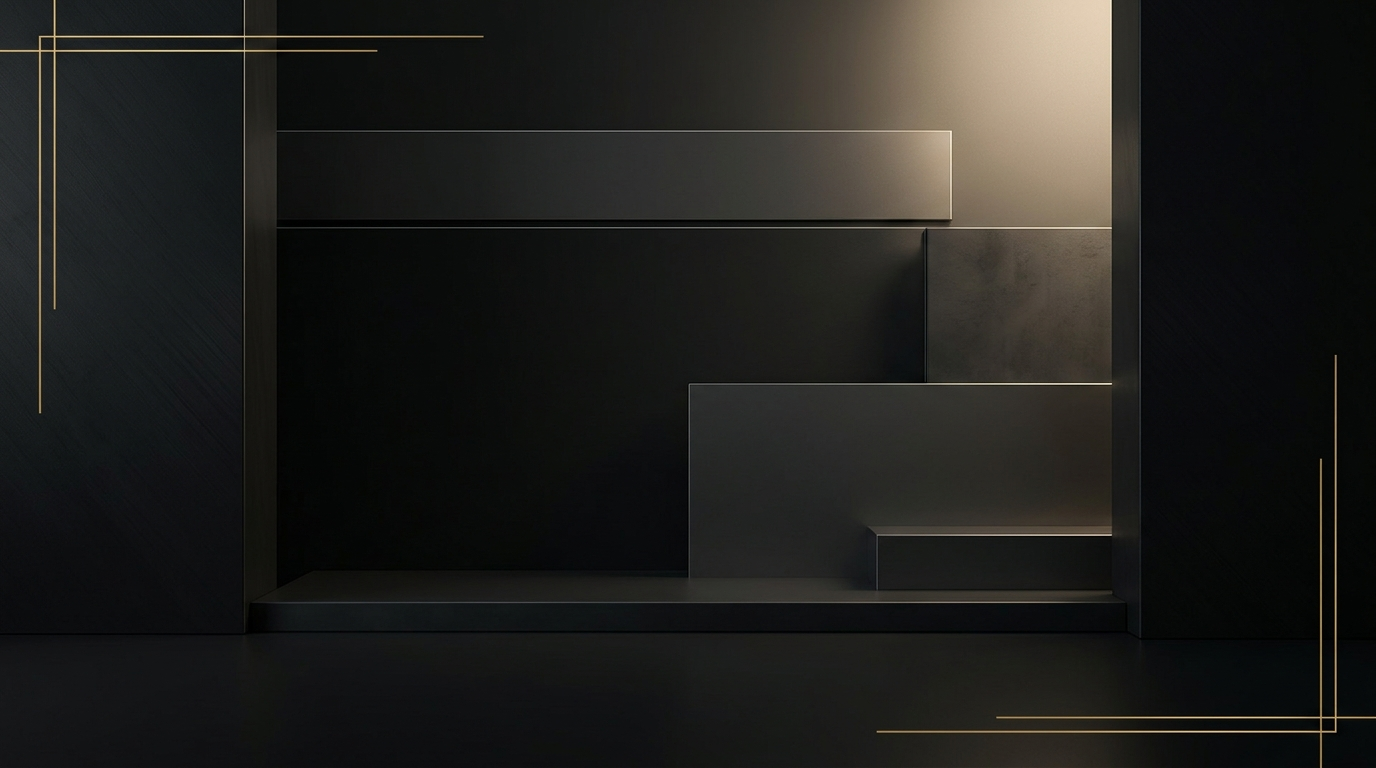
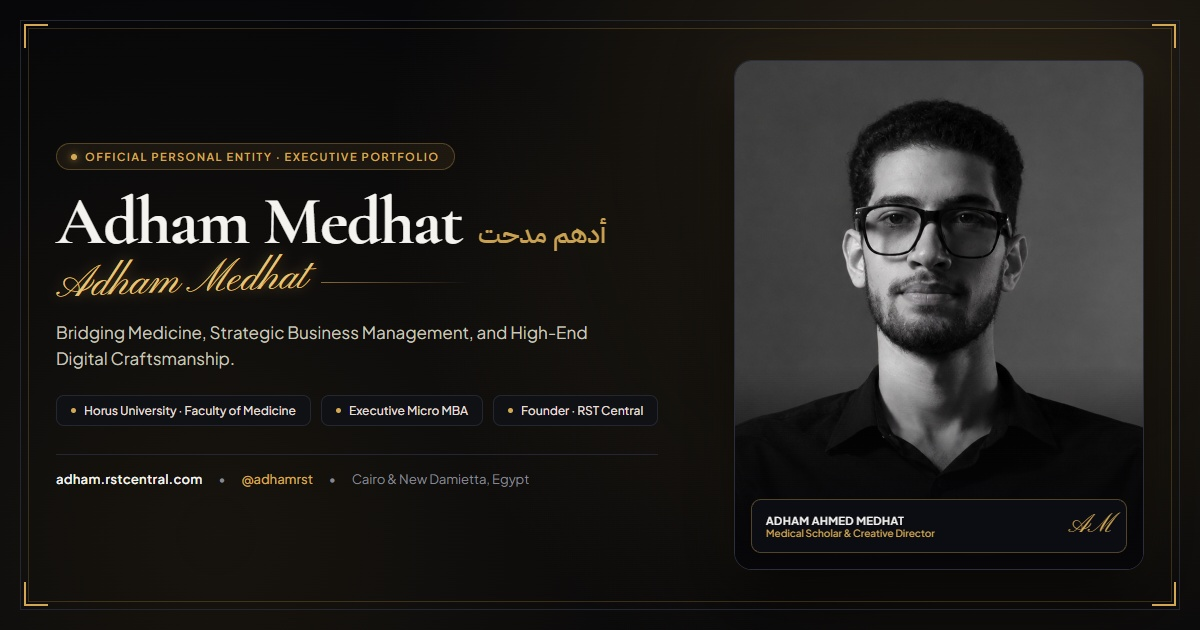
feat(identity): add animated gold handwritten signature and executive 1200x630 OG social cover

diff --git a/src/components/AnimatedSignature.tsx b/src/components/AnimatedSignature.tsx
@@ -1,0 +1,109 @@
+import { useState } from 'react';
+import { motion } from 'motion/react';
+import { EDITORIAL_EASE } from './MotionPrimitives';
+
+interface AnimatedSignatureProps {
+  className?: string;
+  lang?: 'en' | 'ar';
+  showLabel?: boolean;
+  interactive?: boolean;
+}
+
+export function AnimatedSignature({
+  className = '',
+  lang = 'en',
+  showLabel = true,
+  interactive = true,
+}: AnimatedSignatureProps) {
+  const [animationKey, setAnimationKey] = useState(0);
+
+  const handleReplay = () => {
+    if (interactive) {
+      setAnimationKey((prev) => prev + 1);
+    }
+  };
+
+  return (
+    <div
+      className={`relative inline-flex flex-col items-start ${className}`}
+      onClick={handleReplay}
+      role={interactive ? 'button' : undefined}
+      tabIndex={interactive ? 0 : undefined}
+      onKeyDown={(e) => {
+        if (interactive && (e.key === 'Enter' || e.key === ' ')) {
+          e.preventDefault();
+          handleReplay();
+        }
+      }}
+      title={interactive ? (lang === 'ar' ? 'إعادة رسم التوقيع' : 'Click to replay signature') : undefined}
+      aria-label={lang === 'ar' ? 'توقيع أدهم مدحت المعتمد' : 'Official signature of Adham Medhat'}
+    >
+      <svg
+        key={animationKey}
+        viewBox="0 0 380 95"
+        className="h-16 w-auto sm:h-20 select-none overflow-visible drop-shadow-[0_2px_12px_rgba(212,168,83,0.25)]"
+        fill="none"
+        xmlns="http://www.w3.org/2000/svg"
+      >
+        <defs>
+          <linearGradient id="signatureGold" x1="0%" y1="0%" x2="100%" y2="0%">
+            <stop offset="0%" stopColor="#E8C478" />
+            <stop offset="60%" stopColor="#D4A853" />
+            <stop offset="100%" stopColor="#C8973A" />
+          </linearGradient>
+        </defs>
+
+        {/* Cursive Name Text with Live Stroke Draw */}
+        <text
+          x="12"
+          y="56"
+          className="font-signature select-none cursor-pointer"
+          style={{
+            fontFamily: "'Pinyon Script', cursive",
+            fontSize: '54px',
+            stroke: 'url(#signatureGold)',
+            strokeWidth: '1.25px',
+            fill: '#D4A853',
+            letterSpacing: '0.02em',
+            strokeDasharray: 500,
+            strokeDashoffset: 500,
+            animation: 'signatureDraw 1.8s cubic-bezier(0.22, 1, 0.36, 1) forwards',
+          }}
+        >
+          Adham Medhat
+        </text>
+
+        {/* Sweeping Paraph / Underline Flourish */}
+        <motion.path
+          d="M 16 68 Q 140 92 330 58 Q 345 56 354 62"
+          stroke="url(#signatureGold)"
+          strokeWidth="1.8"
+          strokeLinecap="round"
+          initial={{ pathLength: 0, opacity: 0 }}
+          animate={{ pathLength: 1, opacity: 1 }}
+          transition={{ duration: 1.1, delay: 0.9, ease: EDITORIAL_EASE }}
+        />
+
+        {/* End Flourish Seal Dot */}
+        <motion.circle
+          cx="358"
+          cy="63.5"
+          r="2.2"
+          fill="#E8C478"
+          initial={{ scale: 0, opacity: 0 }}
+          animate={{ scale: 1, opacity: 1 }}
+          transition={{ duration: 0.3, delay: 1.85, ease: 'easeOut' }}
+        />
+      </svg>
+
+      {showLabel && (
+        <div className="flex items-center gap-2 pt-0.5 text-[10px] tracking-wider uppercase text-[#858894]">
+          <span className="h-1 w-1 rounded-full bg-[#D4A853]" />
+          <span>
+            {lang === 'ar' ? 'التوقيع الرقمي المعتمد' : 'Authenticated Signature'}
+          </span>
+        </div>
+      )}
+    </div>
+  );
+}

diff --git a/src/components/HeroSection.tsx b/src/components/HeroSection.tsx
@@ -5,6 +5,7 @@ import { ASSETS, IDENTITY_METRICS, Language, UI_COPY } from '../data/profileData
 import { calculateTiltAngles, TiltResult } from '../utils/portfolioLogic';
 import { EDITORIAL_EASE, LineMaskReveal, StaggerGroup, StaggerItem } from './MotionPrimitives';
 import { ResilientImage } from './ResilientImage';
+import { AnimatedSignature } from './AnimatedSignature';
 
 interface HeroSectionProps {
   lang: Language;
@@ -380,16 +381,26 @@ export function HeroSection({
                     </span>
                   </div>
                 </div>
-
-                {/* Measured scrim caption at base (fades softly on desktop hover so fan breathes) */}
-                <figcaption className="absolute inset-x-0 bottom-0 bg-gradient-to-t from-[#070709]/92 via-[#070709]/55 to-transparent px-4 sm:px-5 pt-10 pb-3.5 sm:pb-4 transition-opacity duration-300 lg:group-hover:opacity-0">
-                  <div className="flex items-center justify-between gap-3 text-[11px] sm:text-xs text-[#D5D3CC]">
-                    <span className="truncate font-medium">{UI_COPY.hero.portraitCaption[lang]}</span>
-                    <span className="shrink-0 font-medium text-[#D4A853]">adham.rstcentral.com</span>
-                  </div>
-                </figcaption>
               </figure>
             </div>
+
+            {/* Executive Hand-Drawn Signature Seal */}
+            <motion.div
+              initial={{ opacity: 0, y: 10 }}
+              animate={{ opacity: 1, y: 0 }}
+              transition={{ duration: 0.7, delay: 0.42, ease: EDITORIAL_EASE }}
+              className="mt-3.5 flex items-center justify-between px-1.5"
+            >
+              <AnimatedSignature lang={lang} />
+              <div className="hidden sm:flex flex-col items-end text-right">
+                <span className="font-editorial text-sm font-semibold tracking-tight text-[#F4F3EF]">
+                  @adhamrst
+                </span>
+                <span className="text-[10px] tracking-wider text-[#D4A853]">
+                  {lang === 'ar' ? 'جامعة حورس · RST' : 'Horus Univ · RST'}
+                </span>
+              </div>
+            </motion.div>
           </motion.div>
         </div>
 

diff --git a/index.html b/index.html
@@ -67,11 +67,11 @@
     <link rel="me" href="https://facebook.com/adhamrstt" />
     <!-- Optional Authority rel=me: add your verified Crunchbase & Wikidata URLs when ready -->
 
-    <!-- Editorial Typography (Cormorant Garamond + Plus Jakarta Sans + IBM Plex Sans Arabic) -->
+    <!-- Editorial Typography (Cormorant Garamond + Plus Jakarta Sans + IBM Plex Sans Arabic + Pinyon Script Signature) -->
     <link rel="preconnect" href="https://fonts.googleapis.com" />
     <link rel="preconnect" href="https://fonts.gstatic.com" crossorigin />
     <link
-      href="https://fonts.googleapis.com/css2?family=Cormorant+Garamond:ital,wght@0,500;0,600;0,700;1,500&family=IBM+Plex+Sans+Arabic:wght@400;500;600;700&family=Plus+Jakarta+Sans:wght@400;500;600;700&display=swap"
+      href="https://fonts.googleapis.com/css2?family=Cormorant+Garamond:ital,wght@0,500;0,600;0,700;1,500&family=IBM+Plex+Sans+Arabic:wght@400;500;600;700&family=Pinyon+Script&family=Plus+Jakarta+Sans:wght@400;500;600;700&display=swap"
       rel="stylesheet"
     />
 

diff --git a/src/index.css b/src/index.css
@@ -4,6 +4,7 @@
   --font-display: "Cormorant Garamond", Georgia, serif;
   --font-sans: "Plus Jakarta Sans", -apple-system, BlinkMacSystemFont, sans-serif;
   --font-arabic: "IBM Plex Sans Arabic", "Plus Jakarta Sans", sans-serif;
+  --font-signature: "Pinyon Script", cursive;
 
   --color-obsidian: #070709;
   --color-surface: #101115;
@@ -52,6 +53,10 @@
   font-family: var(--font-display);
 }
 
+.font-signature {
+  font-family: var(--font-signature);
+}
+
 html[dir="rtl"] .font-editorial {
   font-family: var(--font-arabic);
   letter-spacing: 0;
@@ -95,6 +100,21 @@ html[dir="rtl"] .font-editorial {
 .eq-bar {
   transform-origin: bottom;
   animation: eq-pulse 1.15s ease-in-out infinite;
+}
+
+@keyframes signatureDraw {
+  0% {
+    stroke-dashoffset: 500;
+    fill-opacity: 0;
+  }
+  65% {
+    stroke-dashoffset: 0;
+    fill-opacity: 0.15;
+  }
+  100% {
+    stroke-dashoffset: 0;
+    fill-opacity: 1;
+  }
 }
 
 /* Desktop Portrait Hover — Luxury Obsidian & Champagne-Gold Nested Glass Social Fan */

diff --git a/HANDOVER.md b/HANDOVER.md
@@ -72,11 +72,13 @@
 * `src/data/entityConfig.ts` — Drop-in image config, WebP certificate asset map, & RST Central official branding.
 * `src/data/profileData.ts` — Unified bilingual dataset (Full Credentials portfolio, Ventures, Pillars, Copy).
 * `src/components/CredentialsCarousel.tsx` — Dual Grid / 3D Slider display engine with Lightbox and 6-discipline filter bar.
-* `src/components/HeroSection.tsx` — Editorial hero with magnetic CTAs, 3D tilt portrait effects, and social fan.
+* `src/components/HeroSection.tsx` — Editorial hero with magnetic CTAs, 3D tilt portrait effects, clean unoccluded studio portrait, and social fan.
+* `src/components/AnimatedSignature.tsx` — Live SVG handwritten gold signature draw with interactive replay and Pinyon Script typography.
 * `src/components/Navbar.tsx` — 3-zone Top Bar Contract, audio controller, language switcher.
 * `src/components/VenturesSection.tsx` — RST Central flagship interactive spotlight.
 * `src/components/SocialHubSection.tsx` — Unified `@adhamrst` connection hub & US concierge WhatsApp bot composer.
 * `public/CNAME` — `adham.rstcentral.com`.
+* `public/images/adham-medhat-og-cover.jpg` — Production 1200x630 Executive Social Identity Card featuring studio portrait, credentials, and gold signature.
 * `public/images/certificates/` — Production-grade WebP certificates.
 
 ---
